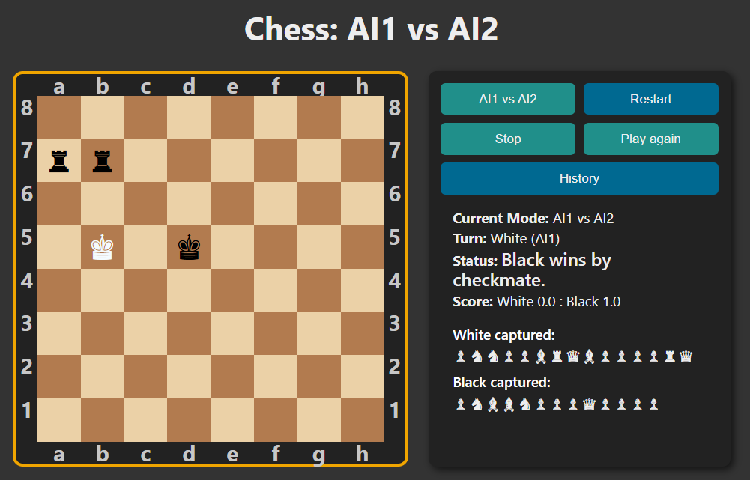
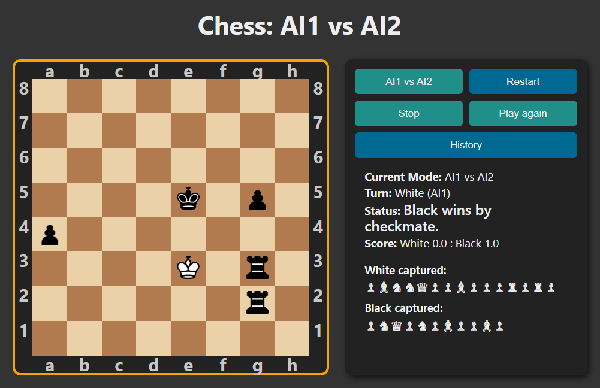
A file was changed

diff --git a/styles.css b/styles.css
@@ -281,7 +281,7 @@ button:disabled {
         max-height: 5vw;
     }
     
-    img {
+   .square img {
 	width: 2vw;
 	height: 2vw;
 }
@@ -333,7 +333,7 @@ button:disabled {
         max-width: 15vw;
         max-height: 15vw;
     }
-        img {
+    .square img {
 	width: 8vw;
 	height: 8vw;
 }
@@ -380,8 +380,7 @@ button:disabled {
         max-width: 15vw;
         max-height: 15vw;
     }
-    
-            img {
+   .square img {
 	width: 8vw;
 	height: 8vw;
 }
@@ -428,7 +427,7 @@ button:disabled {
         max-width: 15vw;
         max-height: 15vw;
     }
-        img {
+    .square img {
 	width: 8vw;
 	height: 8vw;
 }

diff --git a/chess.js b/chess.js
@@ -53,7 +53,8 @@ function buildBoardMarkup() {
     for (let c = 0; c < 8; c++) {
       const squareDiv = document.createElement("div");
       squareDiv.className = "square";
-      const lightSquare = (r + c) % 2 === 1;
+      //const lightSquare = (r + c) % 2 === 1;
+      const lightSquare = (r + c) % 2 === 0;
       if (lightSquare) squareDiv.classList.add("light");
       else squareDiv.classList.add("dark");
       squareDiv.setAttribute("id", `square-${indexToCoord(r, c)}`);

diff --git a/README.md b/README.md
@@ -30,7 +30,7 @@ https://jacekbwwa.github.io/Chess-AI-vs-AI-minimax-Web-Worker-JB/index.html
 #### Board description:
 - The board consists of 64 squares, alternating 32 dark and 32 light squares.
 - Each AI player starts the game with 16 chess pieces placed on the board: 1 king, 1 queen, 2 rooks, 2 bishops, 2 knights, and 8 pawns. One AI player has black pieces, and the other white pieces. The white piece moves first.
-- Pieces are represented on the board using HTML symbols.
+- The pieces on the board are represented by chess symbols.
  
 #### Buttons description:
 - “AI1 vs AI2” button – When pressed, the system initiates a chess game between two AI players (“AI1 vs AI2” mode).
@@ -59,14 +59,23 @@ https://jacekbwwa.github.io/Chess-AI-vs-AI-minimax-Web-Worker-JB/index.html
 ## Screenshot - the black king is in check
 ![Screenshot](screenshot3.png)
 
+## Screenshot - the white king is in check
+![Screenshot](screenshot3a.png)
+
+![Screenshot](screenshot3b.png)
+
 ## Screenshot - History button pressed
 ![Screenshot](screenshot4.png)
+
+![Screenshot](screenshot4a.png)
 
 ## Screenshot - the black king is in checkmate, the white player wins
 ![Screenshot](screenshot10.png)
 
 ## Screenshot - the white king is in checkmate, the black player wins
 ![Screenshot](screenshot16.png)
+
+![Screenshot](screenshot16a.png)
 
 ## Technologies Used
 - HTML/CSS
